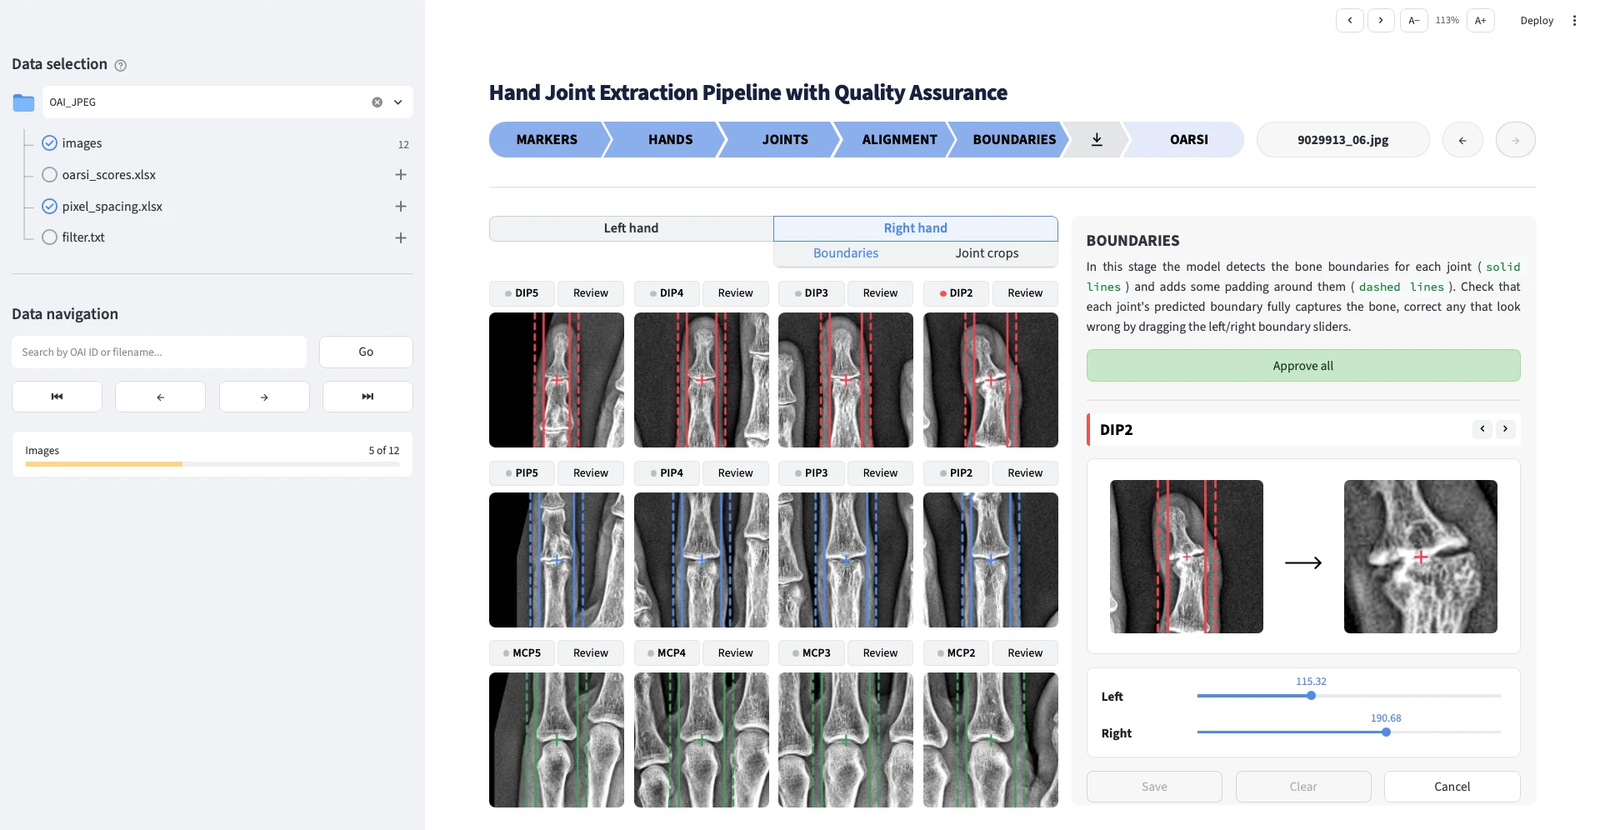
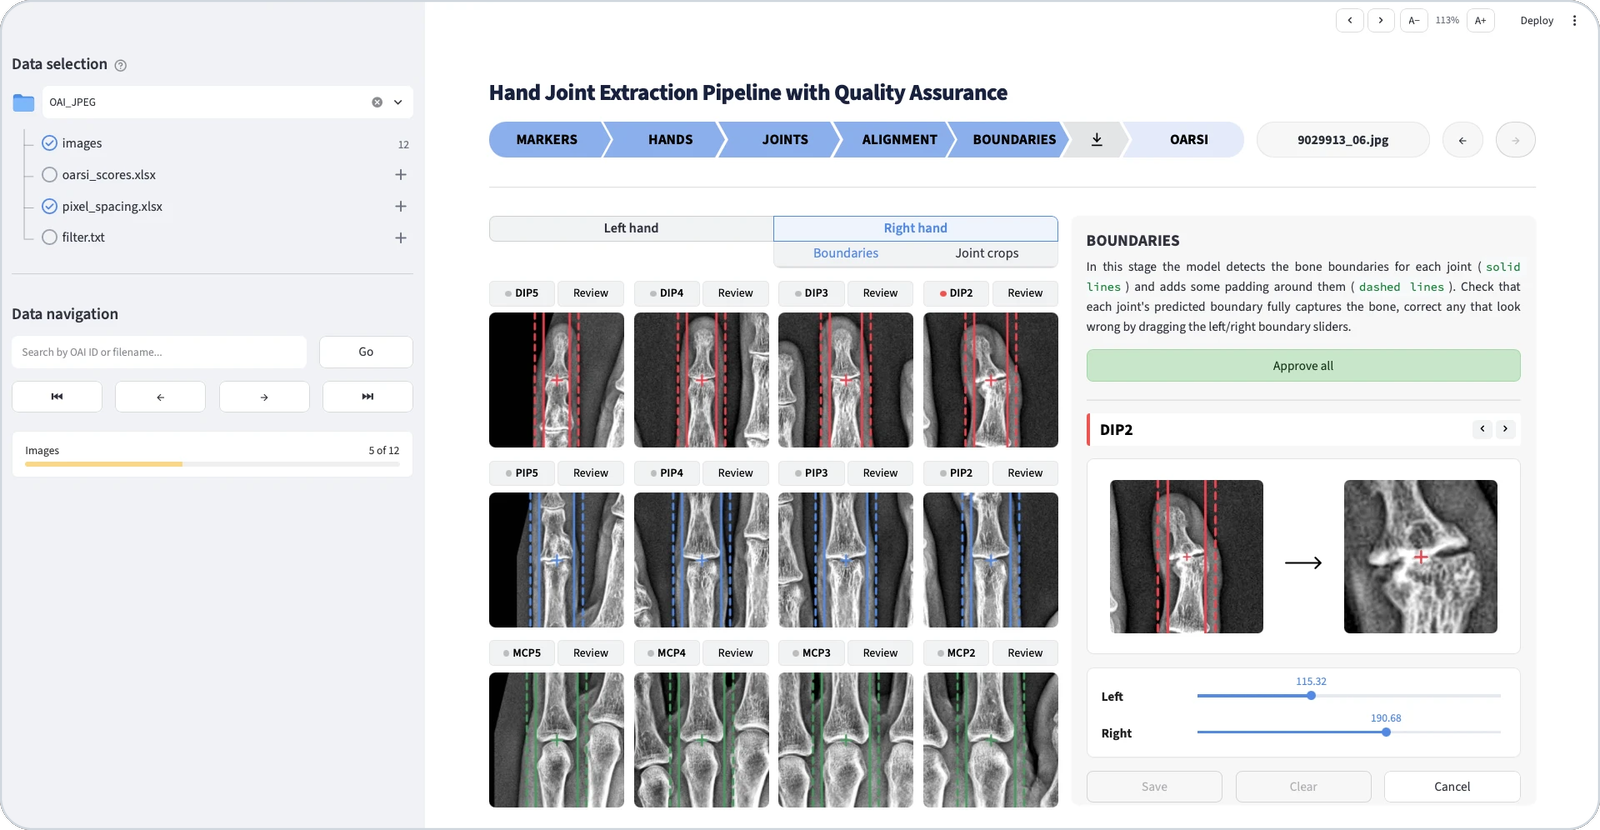
Rounded screenshots, side-by-side pairs, fix Markers and Hands order

Changed region(s): [[0.0, 0.994, 1.0, 1.0], [0.9688, 0.0, 1.0, 0.0301], [0.0, 0.0, 0.0312, 0.0301]]

diff --git a/README.md b/README.md
@@ -26,38 +26,48 @@
 
 ### 1. Markers
 
-<p align="center">
-<img src="docs/assets/interface/markers_1.png" alt="1. Markers stage" width="49%">
-<img src="docs/assets/interface/markers_2.png" alt="1. Markers stage, detail" width="49%">
-</p>
+<table>
+<tr>
+<td width="50%"><img src="docs/assets/interface/markers_1.png" alt="1. Markers stage"></td>
+<td width="50%"><img src="docs/assets/interface/markers_2.png" alt="1. Markers stage, detail"></td>
+</tr>
+</table>
 
 ### 2. Hands
 
-<p align="center">
-<img src="docs/assets/interface/hands_1.png" alt="2. Hands stage" width="49%">
-<img src="docs/assets/interface/hands_2.png" alt="2. Hands stage, detail" width="49%">
-</p>
+<table>
+<tr>
+<td width="50%"><img src="docs/assets/interface/hands_1.png" alt="2. Hands stage"></td>
+<td width="50%"><img src="docs/assets/interface/hands_2.png" alt="2. Hands stage, detail"></td>
+</tr>
+</table>
 
 ### 3. Joints
 
-<p align="center">
-<img src="docs/assets/interface/joints_1.png" alt="3. Joints stage" width="49%">
-<img src="docs/assets/interface/joints_2.png" alt="3. Joints stage, detail" width="49%">
-</p>
+<table>
+<tr>
+<td width="50%"><img src="docs/assets/interface/joints_1.png" alt="3. Joints stage"></td>
+<td width="50%"><img src="docs/assets/interface/joints_2.png" alt="3. Joints stage, detail"></td>
+</tr>
+</table>
 
 ### 4. Alignment
 
-<p align="center">
-<img src="docs/assets/interface/alignment_1.png" alt="4. Alignment stage" width="49%">
-<img src="docs/assets/interface/alignment_2.png" alt="4. Alignment stage, detail" width="49%">
-</p>
+<table>
+<tr>
+<td width="50%"><img src="docs/assets/interface/alignment_1.png" alt="4. Alignment stage"></td>
+<td width="50%"><img src="docs/assets/interface/alignment_2.png" alt="4. Alignment stage, detail"></td>
+</tr>
+</table>
 
 ### 5. Boundaries
 
-<p align="center">
-<img src="docs/assets/interface/boundaries_1.png" alt="5. Boundaries stage" width="49%">
-<img src="docs/assets/interface/boundaries_2.png" alt="5. Boundaries stage, detail" width="49%">
-</p>
+<table>
+<tr>
+<td width="50%"><img src="docs/assets/interface/boundaries_1.png" alt="5. Boundaries stage"></td>
+<td width="50%"><img src="docs/assets/interface/boundaries_2.png" alt="5. Boundaries stage, detail"></td>
+</tr>
+</table>
 
 ### 6. Download
 
